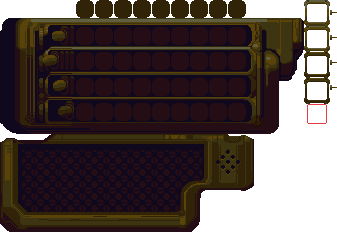
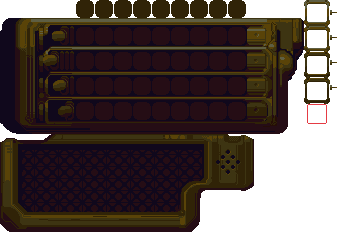
add OutfitterGizmo

Changed region(s): [[0.7122, 0.0905, 0.8902, 0.6034]]

diff --git a/game/src/gui/gizmos/WardrobeGizmo.cpp b/game/src/gui/gizmos/WardrobeGizmo.cpp
@@ -13,30 +13,33 @@ namespace fornani::gui {
 
 WardrobeGizmo::WardrobeGizmo(automa::ServiceProvider& svc, world::Map& map, sf::Vector2f placement)
 	: Gizmo("Wardrobe", false), m_path{svc.finder, std::filesystem::path{"/data/gui/gizmo_paths.json"}, "wardrobe", 48, util::InterpolationType::cubic}, m_nani(svc), m_core(svc.assets.get_texture("wardrobe_gizmo_core"), {139, 255}),
-	  m_wires(svc.assets.get_texture("wardrobe_wires"), {88, 118}), m_light(svc.assets.get_texture("red_light"), {5, 4}), m_nani_offset{38.f, 38.f}, m_pawn_offset{106.f, 332.f}, m_light_offset{12.f, 272.f},
-	  m_scanline{sf::Sprite{svc.assets.get_texture("portrait_scanline")}}, m_sprite{sf::Sprite{svc.assets.get_texture("wardrobe_gizmo")}},
+	  m_light(svc.assets.get_texture("red_light"), {5, 4}), m_nani_offset{38.f, 38.f}, m_pawn_offset{106.f, 332.f}, m_light_offset{12.f, 272.f}, m_scanline{sf::Sprite{svc.assets.get_texture("portrait_scanline")}},
+	  m_sprite{sf::Sprite{svc.assets.get_texture("wardrobe_gizmo")}},
 	  m_health_display{.hearts{sf::Sprite{svc.assets.get_texture("pioneer_hearts")}}, .sockets{sf::Sprite{svc.assets.get_texture("pioneer_heart_sockets")}}, .position{16.f, 374}} {
 	m_placement = placement;
 	m_wardrobe_update = true;
 	m_path.set_section("start");
 	m_core.set_scale(util::constants::f_scale_vec);
 	m_light.set_scale(util::constants::f_scale_vec);
+	m_sprite.setScale(util::constants::f_scale_vec);
 	m_scanline.setScale(util::constants::f_scale_vec);
 	m_health_display.hearts.setScale(util::constants::f_scale_vec);
 	m_health_display.sockets.setScale(util::constants::f_scale_vec);
 	m_core.push_params("idle", {0, 1, 128, 0});
 	m_core.push_params("beat", {1, 9, 32, 0}, "idle");
-	m_wires.push_params("idle", {0, 1, 128, -1});
-	m_wires.push_params("plug", {1, 6, 64, 0});
-	m_wires.push_params("set", {7, 1, 128, -1});
 	m_light.push_params("blink", {0, 8, 32, -1});
 	m_core.set_params("idle");
-	m_wires.set_params("idle");
 	m_light.set_params("blink");
 }
 
 void WardrobeGizmo::update(automa::ServiceProvider& svc, [[maybe_unused]] player::Player& player, [[maybe_unused]] world::Map& map, sf::Vector2f position) {
 	Gizmo::update(svc, player, map, position);
+	if (m_state == GizmoState::selected && m_switched) {
+		on_open(svc, player, map);
+	} else if (m_switched) {
+		on_close(svc, player, map);
+	}
+	if (m_outfitter) { m_outfitter->update(svc, player, map, m_placement + m_path.get_position()); }
 	if (svc.ticker.every_x_ticks(600)) { m_core.set_params("beat"); }
 	m_path.update();
 	m_nani.set_position(m_placement + m_path.get_position() + m_nani_offset);
@@ -59,6 +62,17 @@ void WardrobeGizmo::update(automa::ServiceProvider& svc, [[maybe_unused]] player
 void WardrobeGizmo::render(automa::ServiceProvider& svc, sf::RenderWindow& win, [[maybe_unused]] player::Player& player, sf::Vector2f cam, bool foreground) {
 	if (is_foreground() != foreground) { return; }
 	Gizmo::render(svc, win, player, cam);
+
+	// insertion pins
+	m_sprite.setTextureRect(sf::IntRect{{330, 10}, {7, 80}});
+	auto pin_offset{sf::Vector2f{260.f, 72.f}};
+	m_sprite.setPosition(m_placement + m_path.get_position() + pin_offset - cam);
+	win.draw(m_sprite);
+
+	// outfitter
+	if (m_outfitter) { m_outfitter->render(svc, win, player, cam, foreground); }
+
+	// player portrait + scanline + health display
 	m_nani.render(svc, win, cam);
 	static auto movement{util::Circuit{4}};
 	if (svc.ticker.every_x_frames(8)) { movement.modulate(1); }
@@ -75,6 +89,16 @@ void WardrobeGizmo::render(automa::ServiceProvider& svc, sf::RenderWindow& win, 
 	win.draw(m_health_display.hearts);
 }
 
-bool WardrobeGizmo::handle_inputs(config::ControllerMap& controller, [[maybe_unused]] audio::Soundboard& soundboard) { return Gizmo::handle_inputs(controller, soundboard); }
+bool WardrobeGizmo::handle_inputs(config::ControllerMap& controller, [[maybe_unused]] audio::Soundboard& soundboard) { return Gizmo::handle_inputs(controller, soundboard) || m_outfitter->handle_inputs(controller, soundboard); }
+
+void WardrobeGizmo::on_open(automa::ServiceProvider& svc, [[maybe_unused]] player::Player& player, [[maybe_unused]] world::Map& map) {
+	Gizmo::on_open(svc, player, map);
+	if (m_state == GizmoState::selected) { m_outfitter = std::make_unique<OutfitterGizmo>(svc, map, sf::Vector2f{288.f, 36.f}); }
+}
+
+void WardrobeGizmo::on_close(automa::ServiceProvider& svc, [[maybe_unused]] player::Player& player, [[maybe_unused]] world::Map& map) {
+	Gizmo::on_close(svc, player, map);
+	m_outfitter->close();
+}
 
 } // namespace fornani::gui

diff --git a/game/src/gui/gizmos/OutfitterGizmo.cpp b/game/src/gui/gizmos/OutfitterGizmo.cpp
@@ -1,0 +1,66 @@
+
+#include "fornani/gui/gizmos/OutfitterGizmo.hpp"
+
+#include "fornani/entities/player/Player.hpp"
+#include "fornani/service/ServiceProvider.hpp"
+#include "fornani/utils/Math.hpp"
+#include "fornani/world/Map.hpp"
+
+#include <numbers>
+
+namespace fornani::gui {
+
+OutfitterGizmo::OutfitterGizmo(automa::ServiceProvider& svc, world::Map& map, sf::Vector2f placement)
+	: Gizmo("Outfitter", false), m_sprite{sf::Sprite{svc.assets.get_texture("wardrobe_gizmo")}}, m_path{svc.finder, std::filesystem::path{"/data/gui/gizmo_paths.json"}, "wardrobe_outfitter", 108, util::InterpolationType::quadratic},
+	  m_wires(svc.assets.get_texture("wardrobe_wires"), {88, 118}), m_max_slots{10} {
+	m_placement = placement;
+	m_sprite.setScale(util::constants::f_scale_vec);
+	m_wires.set_scale(util::constants::f_scale_vec);
+	m_path.set_section("start");
+	m_wires.push_params("idle", {0, 1, 128, -1});
+	m_wires.push_params("plug", {1, 6, 20, 0}, "set");
+	m_wires.push_params("set", {7, 1, 128, -1});
+	m_wires.set_params("idle");
+	auto row{0};
+	for (auto& slider : m_sliders) {
+		slider.lookup = sf::IntRect{{304, 26 * row}, {26, 26}};
+		++row;
+	}
+}
+
+void OutfitterGizmo::update(automa::ServiceProvider& svc, [[maybe_unused]] player::Player& player, [[maybe_unused]] world::Map& map, sf::Vector2f position) {
+	Gizmo::update(svc, player, map, position);
+	m_path.update();
+	m_physics.position = m_path.get_position() + position;
+
+	// set slider positions
+	auto slider_offset{sf::Vector2f{144.f, 10.f}};
+	auto grid_offset{sf::Vector2f{38.f, 50.f}};
+	auto row{0.f};
+	auto equipped{static_cast<float>(m_max_slots) - 1.f};
+	for (auto& slider : m_sliders) {
+		auto current_apparel{player.catalog.wardrobe.get_variant(static_cast<player::ApparelType>(row))};
+		if (current_apparel != player::ClothingVariant::standard) { equipped = static_cast<int>(current_apparel); }
+		slider.position = m_physics.position + m_placement + slider_offset + grid_offset.componentWiseMul(sf::Vector2f{equipped, row});
+		++row;
+	}
+	auto wire_offset{sf::Vector2f{-42.f, 26.f}};
+	m_wires.update(m_physics.position + m_placement + wire_offset);
+	if (m_path.completed_step(1)) { m_wires.set_params("plug"); }
+}
+
+void OutfitterGizmo::render(automa::ServiceProvider& svc, sf::RenderWindow& win, [[maybe_unused]] player::Player& player, sf::Vector2f cam, bool foreground) {
+	if (is_foreground() != foreground) { return; }
+	Gizmo::render(svc, win, player, cam);
+	m_sprite.setTextureRect(sf::IntRect{{0, 18}, {304, 116}});
+	m_sprite.setPosition(m_physics.position + m_placement - cam);
+	win.draw(m_sprite);
+	for (auto& slider : m_sliders) { slider.render(win, m_sprite, cam, {}); }
+	m_wires.render(svc, win, cam);
+}
+
+bool OutfitterGizmo::handle_inputs(config::ControllerMap& controller, [[maybe_unused]] audio::Soundboard& soundboard) { return Gizmo::handle_inputs(controller, soundboard); }
+
+void OutfitterGizmo::close() { m_path.set_section("close"); }
+
+} // namespace fornani::gui

diff --git a/game/include/fornani/gui/gizmos/OutfitterGizmo.hpp b/game/include/fornani/gui/gizmos/OutfitterGizmo.hpp
@@ -1,0 +1,29 @@
+
+#pragma once
+
+#include "fornani/entities/animation/AnimatedSprite.hpp"
+#include "fornani/entities/player/Wardrobe.hpp"
+#include "fornani/gui/Gizmo.hpp"
+
+namespace fornani::gui {
+
+class OutfitterGizmo : public Gizmo {
+  public:
+	OutfitterGizmo(automa::ServiceProvider& svc, world::Map& map, sf::Vector2f placement);
+	void update(automa::ServiceProvider& svc, [[maybe_unused]] player::Player& player, [[maybe_unused]] world::Map& map, sf::Vector2f position) override;
+	void render(automa::ServiceProvider& svc, sf::RenderWindow& win, [[maybe_unused]] player::Player& player, sf::Vector2f cam, bool foreground = false) override;
+	bool handle_inputs(config::ControllerMap& controller, [[maybe_unused]] audio::Soundboard& soundboard) override;
+
+	void close();
+
+  private:
+	sf::Sprite m_sprite;
+	std::array<Constituent, static_cast<int>(player::ApparelType::END)> m_sliders;
+	Constituent m_selector;
+	Constituent m_row;
+	util::RectPath m_path;
+	anim::AnimatedSprite m_wires;
+	int m_max_slots{};
+};
+
+} // namespace fornani::gui

diff --git a/game/include/fornani/gui/gizmos/WardrobeGizmo.hpp b/game/include/fornani/gui/gizmos/WardrobeGizmo.hpp
@@ -4,6 +4,7 @@
 #include "fornani/entities/animation/AnimatedSprite.hpp"
 #include "fornani/gui/Gizmo.hpp"
 #include "fornani/gui/WardrobeWidget.hpp"
+#include "fornani/gui/gizmos/OutfitterGizmo.hpp"
 
 namespace fornani::gui {
 
@@ -22,6 +23,9 @@ class WardrobeGizmo : public Gizmo {
 	bool handle_inputs(config::ControllerMap& controller, [[maybe_unused]] audio::Soundboard& soundboard) override;
 
   private:
+	void on_open(automa::ServiceProvider& svc, [[maybe_unused]] player::Player& player, [[maybe_unused]] world::Map& map) override;
+	void on_close(automa::ServiceProvider& svc, [[maybe_unused]] player::Player& player, [[maybe_unused]] world::Map& map) override;
+	std::unique_ptr<OutfitterGizmo> m_outfitter{};
 	WardrobeWidget m_nani;
 	util::RectPath m_path;
 	bool m_wardrobe_update{};
@@ -30,7 +34,6 @@ class WardrobeGizmo : public Gizmo {
 	sf::Vector2f m_light_offset{};
 
 	anim::AnimatedSprite m_core;
-	anim::AnimatedSprite m_wires;
 	anim::AnimatedSprite m_light;
 	sf::Sprite m_scanline;
 	sf::Sprite m_sprite;

diff --git a/game/src/gui/Dashboard.cpp b/game/src/gui/Dashboard.cpp
@@ -41,8 +41,9 @@ Dashboard::Dashboard(automa::ServiceProvider& svc, world::Map& map, player::Play
 	}
 	auto clock_placement{sf::Vector2f{84.f, 142.f}};
 	auto wardrobe_placement{sf::Vector2f{svc.window->f_screen_dimensions().x + 26, 0.f}};
-	m_gizmos.push_back(std::make_unique<ClockGizmo>(svc, map, clock_placement));	   // have to stick this in the for loop once we have a clock item
+	// push gizmos in clockwise order so selection setting will work
 	m_gizmos.push_back(std::make_unique<WardrobeGizmo>(svc, map, wardrobe_placement)); // have to stick this in the for loop once we have a clock item
+	m_gizmos.push_back(std::make_unique<ClockGizmo>(svc, map, clock_placement));	   // have to stick this in the for loop once we have a clock item
 	m_sprite.setScale(util::constants::f_scale_vec);
 }
 

diff --git a/game/include/fornani/entities/player/Wardrobe.hpp b/game/include/fornani/entities/player/Wardrobe.hpp
@@ -13,7 +13,7 @@ class TextureUpdater;
 
 namespace fornani::player {
 
-enum class ApparelType : std::uint8_t { shirt, pants, hairstyle, jacket, headgear, END };
+enum class ApparelType : std::uint8_t { pants, shirt, headgear, hairstyle, END };
 enum class ClothingVariant : std::uint8_t { standard, red_jeans, chalcedony_tee, chalcedony_skirt, punk_hair, punk_shirt, punk_pants, ponytail };
 
 class Wardrobe {
